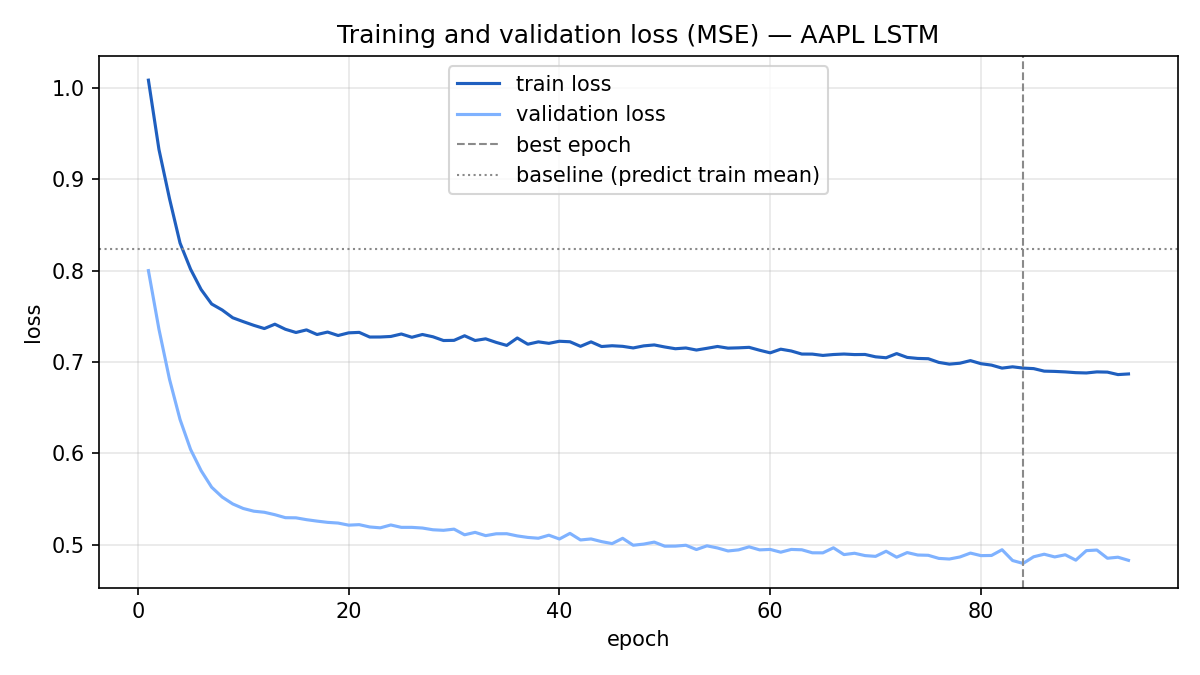
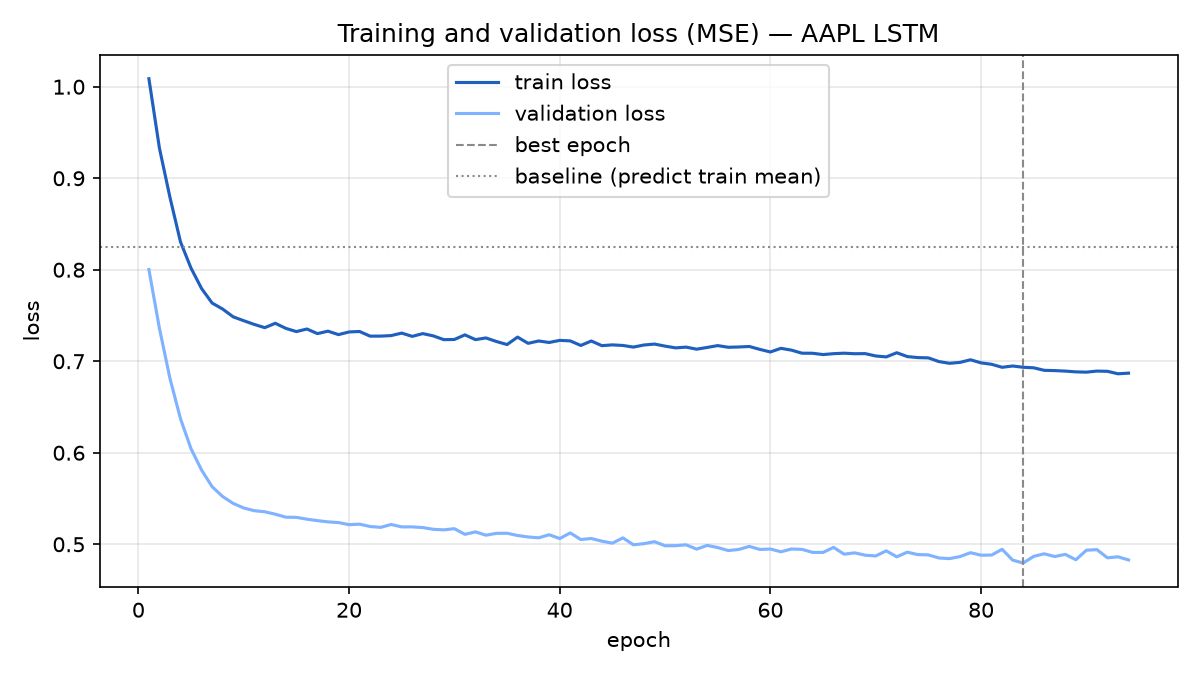
Add batch files

diff --git a/README.md b/README.md
@@ -12,6 +12,8 @@ on a held-out test period.
 FinalProject/
 ├── main.py              # CLI: train | predict
 ├── requirements.txt
+├── run.bat              # Windows launcher: creates .venv, installs deps, runs main.py
+├── train_aapl.bat, predict_aapl.bat, ...   # ready-made shortcuts that call run.bat
 ├── src/
 │   ├── config.py        # all settings (single source of truth)
 │   ├── data.py          # Yahoo Finance download + CSV cache
@@ -36,6 +38,30 @@ python main.py train --ticker AAPL                      # default: volatility ta
 python main.py predict --ticker AAPL
 python main.py train --ticker AAPL --target return      # next-day return instead
 ```
+
+### Windows (.bat launchers)
+
+`run.bat` creates a `.venv` on first use, installs `requirements.txt` (again only when it changes) and forwards all
+arguments to `main.py`:
+
+```bat
+run.bat                                       :: train AAPL (volatility target)
+run.bat predict --ticker AAPL
+run.bat train --ticker MSFT --target return --epochs 50
+```
+
+Double-clickable shortcuts (each calls `run.bat` and pauses at the end):
+
+| File | Runs |
+|---|---|
+| `train_aapl.bat` | `run.bat` (default) |
+| `predict_aapl.bat` | `run.bat predict --ticker AAPL` |
+| `train_msft.bat` | `run.bat train --ticker MSFT` |
+| `train_aapl_return.bat` | `run.bat train --ticker AAPL --target return` |
+| `train_aapl_epochs50.bat` | `run.bat train --ticker AAPL --epochs 50 --seq-len 60` |
+| `train_aapl_refresh.bat` | `run.bat train --ticker AAPL --refresh` |
+
+`predict` needs a trained model, so run a train shortcut first.
 
 Any Yahoo Finance ticker works (`AAPL`, `MSFT`, `^IXIC`, `TA35.TA`, `BTC-USD`, …).
 Other options: `--start`, `--end`, `--target` (`volatility` default, or `return`), `--seq-len` (input window length, default 40), `--epochs`, `--refresh`.
